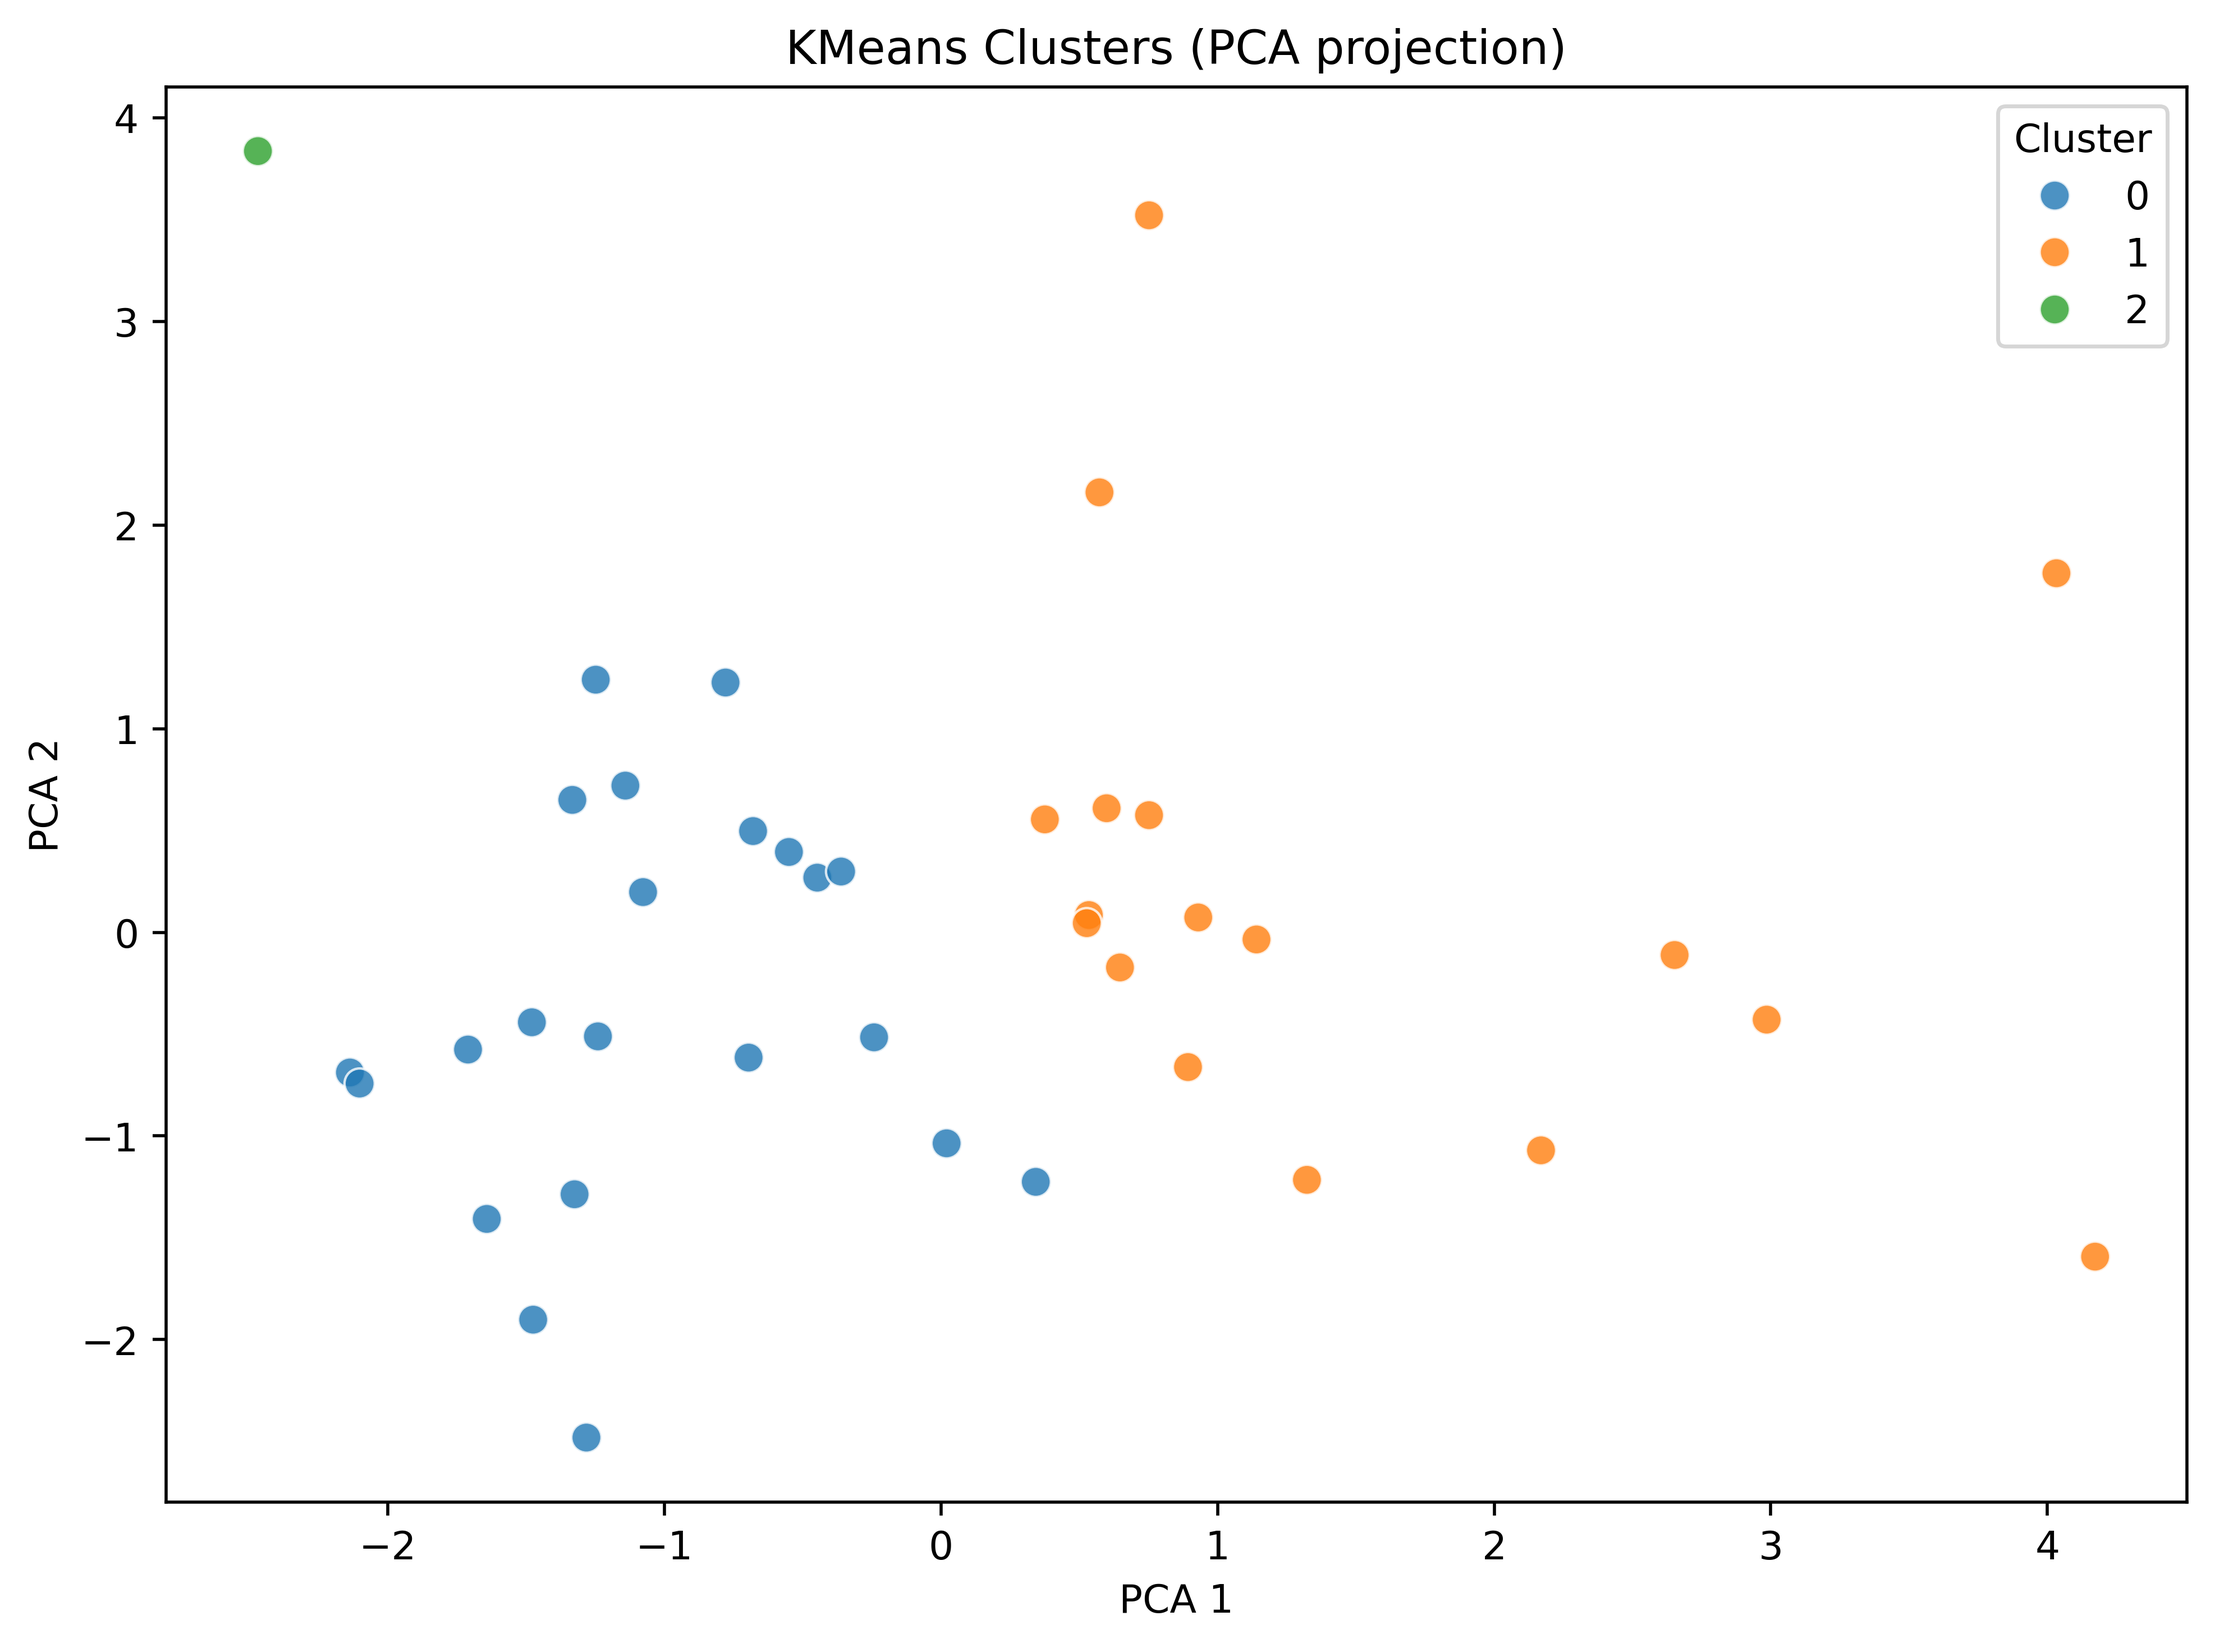
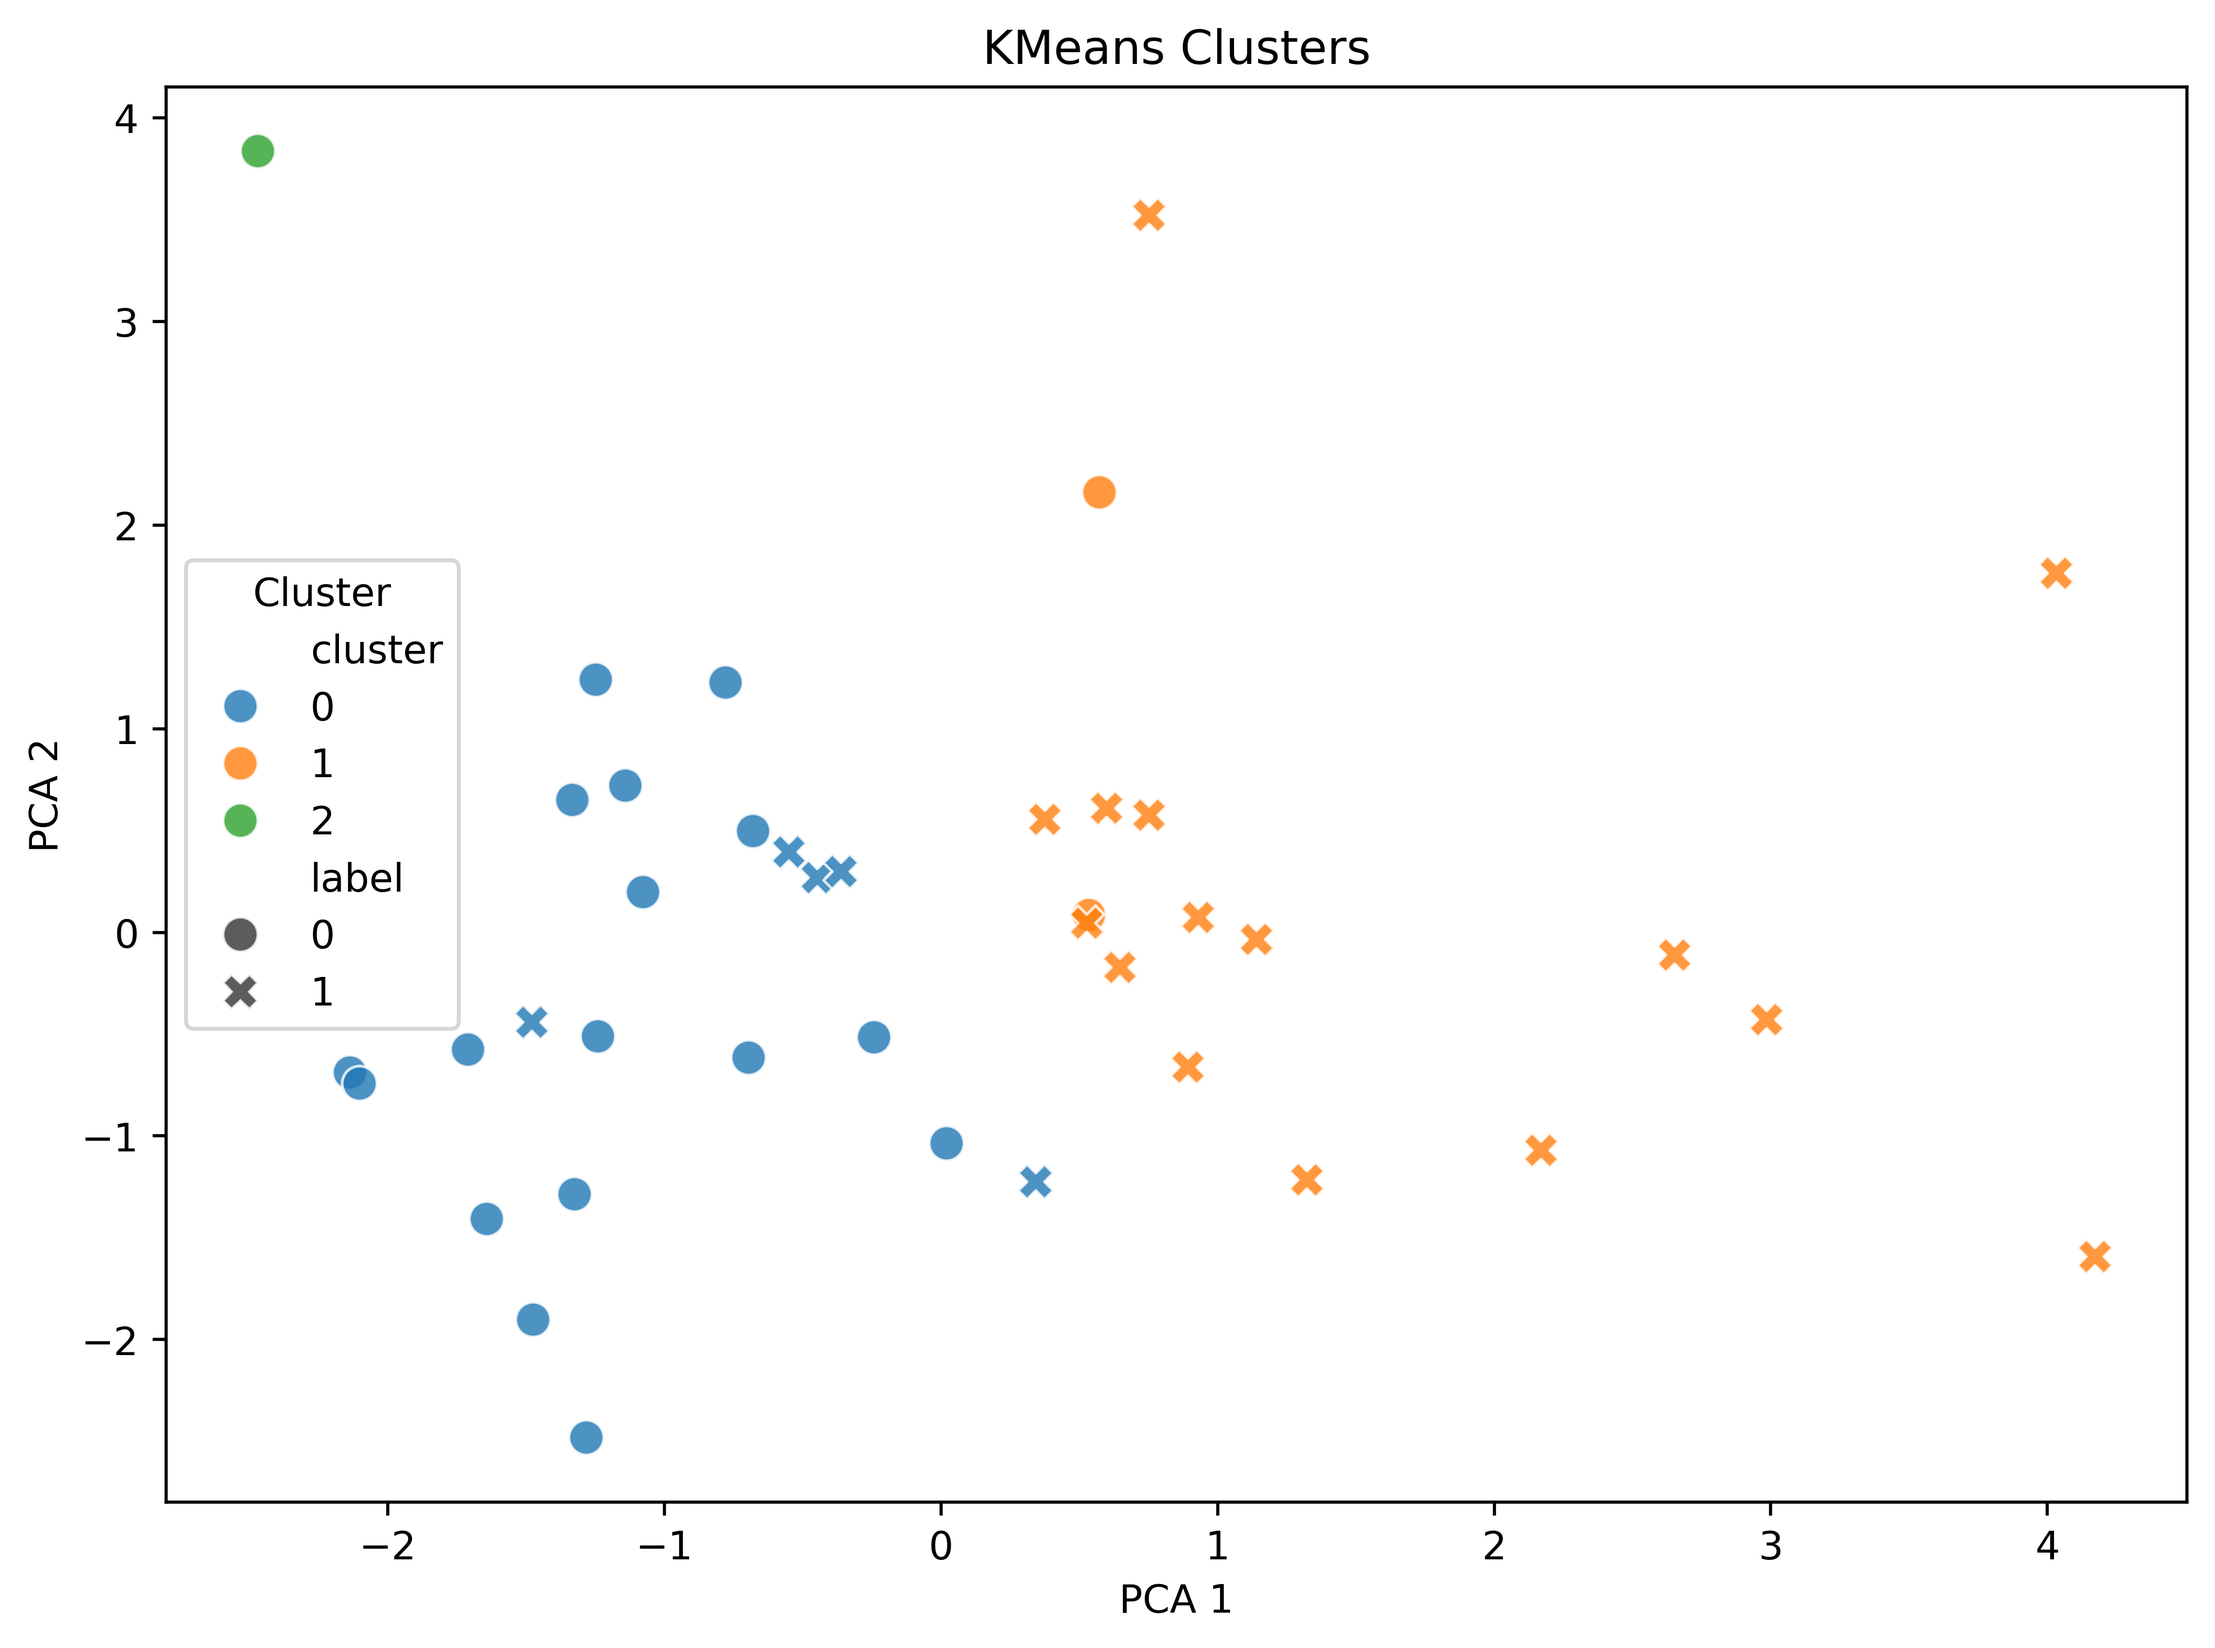
that's it for the day

diff --git a/src2/modeling.py b/src2/modeling.py
@@ -93,10 +93,10 @@ def unsupervised_analysis(summary, n_cluaster, random_state):
 def plot(summary):
     plt.figure(figsize=(8, 6))
     sns.scatterplot(
-        x='pca1', y='pca2', hue='cluster',
-        data=summary, palette='tab10', s=60, alpha=0.8
+        x='pca1', y='pca2', hue='cluster', style='label',
+        data=summary, palette='tab10', s=80, alpha=0.8
     )
-    plt.title('KMeans Clusters (PCA projection)')
+    plt.title('KMeans Clusters')
     plt.xlabel('PCA 1')
     plt.ylabel('PCA 2')
     plt.legend(title='Cluster')
@@ -106,7 +106,8 @@ def plot(summary):
     print("plot saved")
 
 def save_summary(summary, ):
-    summary = pd.DataFrame(summary)
+    summary.to_csv('unsupervised/feed.csv', index=False)
+    print('summary saved')
 
 def main():
     df_ms, df_h = load_data()
